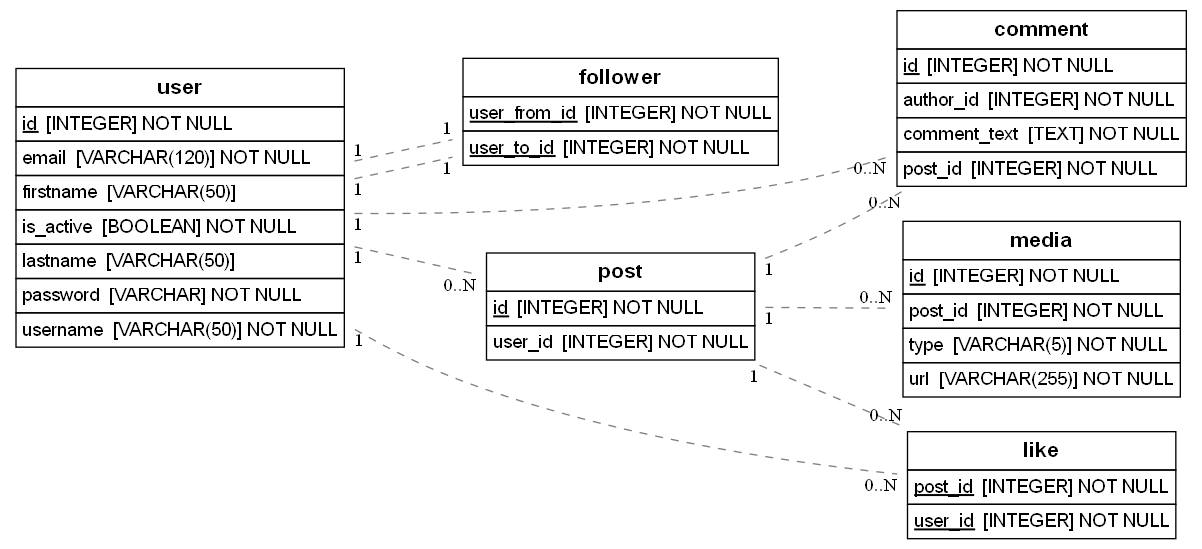
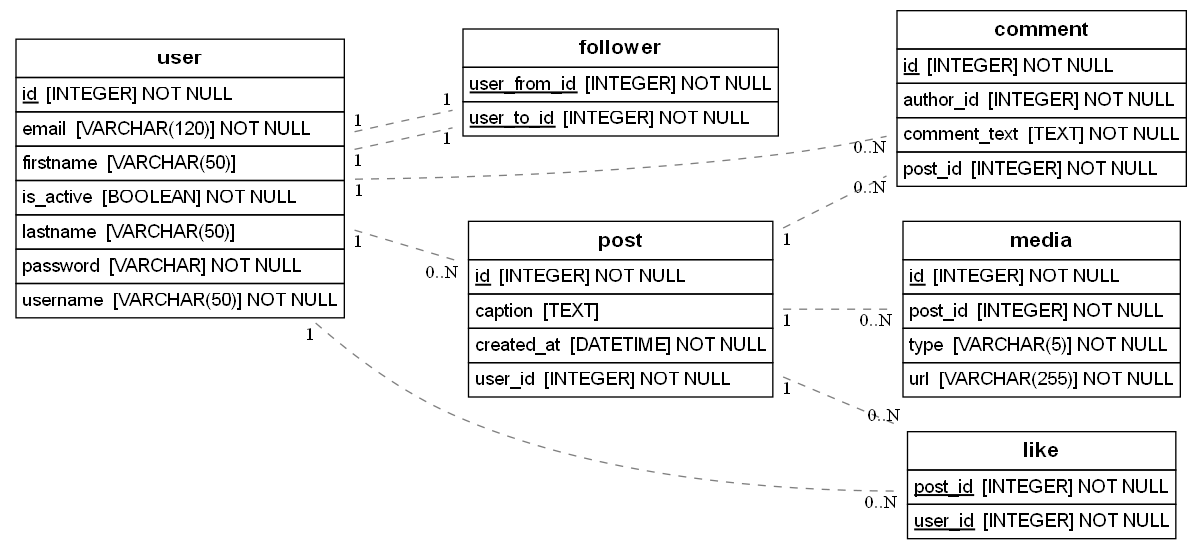
Add caption and created_at to Post and update UML diagram

diff --git a/src/models.py b/src/models.py
@@ -1,7 +1,8 @@
 import enum
+from datetime import datetime, timezone
 from typing import List
 from flask_sqlalchemy import SQLAlchemy
-from sqlalchemy import String, Boolean, ForeignKey, Enum, Text
+from sqlalchemy import String, Boolean, ForeignKey, Enum, Text, DateTime
 from sqlalchemy.orm import Mapped, mapped_column, relationship
 
 db = SQLAlchemy()
@@ -58,6 +59,9 @@ class User(db.Model):
 class Post(db.Model):
     id: Mapped[int] = mapped_column(primary_key=True)
     user_id: Mapped[int] = mapped_column(ForeignKey("user.id"), nullable=False)
+    caption: Mapped[str] = mapped_column(Text, nullable=True)
+    created_at: Mapped[datetime] = mapped_column(
+        DateTime, nullable=False, default=lambda: datetime.now(timezone.utc))
 
     user: Mapped["User"] = relationship(back_populates="posts")
     media: Mapped[List["Media"]] = relationship(back_populates="post")
@@ -68,6 +72,8 @@ class Post(db.Model):
         return {
             "id": self.id,
             "user_id": self.user_id,
+            "caption": self.caption,
+            "created_at": self.created_at.isoformat(),
             "likes": len(self.likes),
             "media": [m.serialize() for m in self.media],
         }
